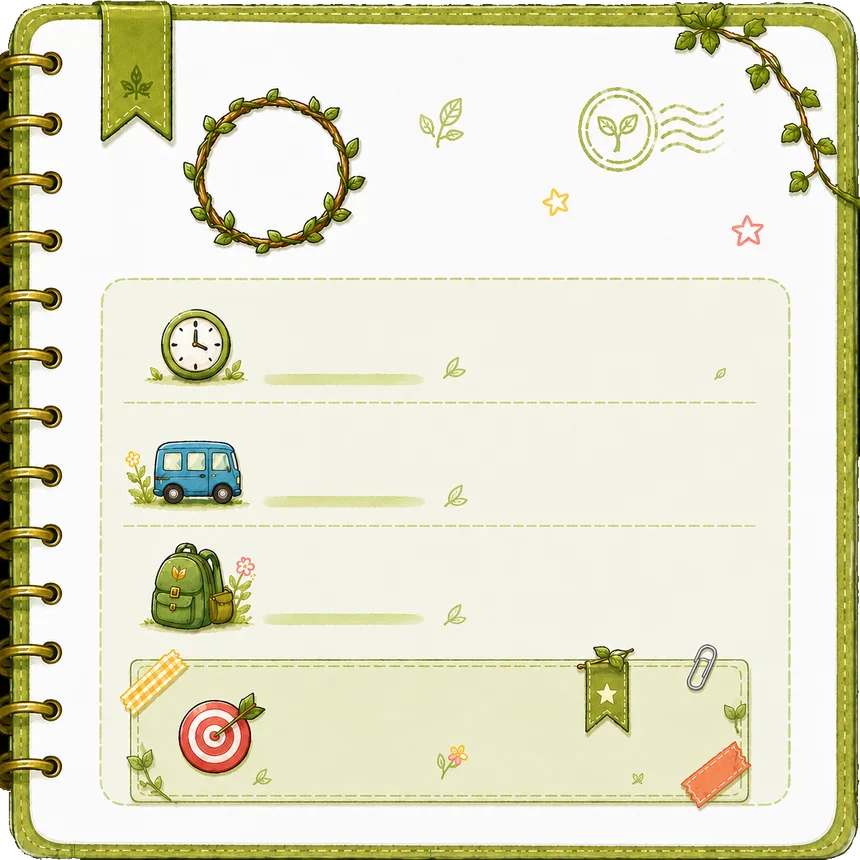
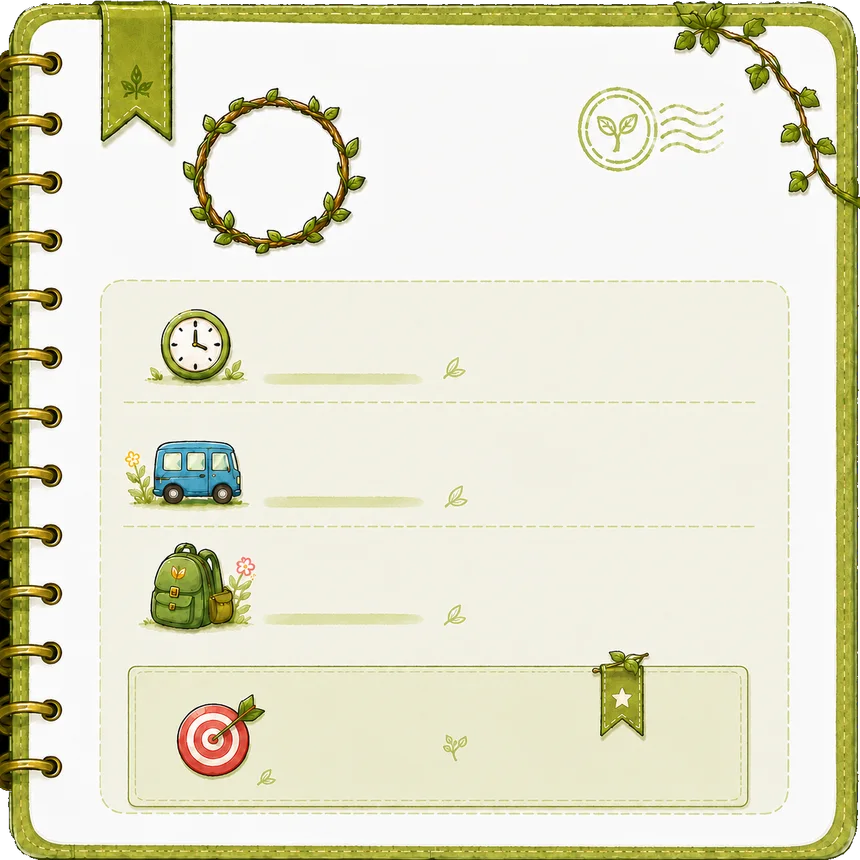
feat: 모험일지 카드 v4 원화 교체 (#108)
* fix: 모험지도 발자국 길 이탈 수정 — v5 원화에서 모래길 중심선 자동 추출로 경로 재보정

- 짧은/긴 지도 PATH를 원화 색 분류 스캔(모래색 픽셀 행별 추적)으로 재추출
- 짧은 지도 17점 → 46점, 긴 지도 21점 → 68점 (S커브·다리 통과 정밀 반영)
- 다리 구간은 목재 데크라 색 추출이 안 되어 수동 보간

Claude-Session: https://claude.ai/code/session_018maNuYqDfFyRSe9uKpZhPR

* feat: 우측 상단 원형 뱃지 버튼 3종 세로 배치 (엄마용-아이전환-아바타)

- 사용자 신규 원화 4종 탑재: 엄마용(엄마 얼굴)·아이전환(남매)·내아바타(초록 실루엣)·성장캐릭터(새싹)
- 엄마용·아이전환 뱃지 그림 v2로 교체
- 내 아바타/성장캐릭터 토글: 좌측 하단 나무 팻말 → 우측 상단 3번째 원형 뱃지(52px)로 이동
- 배경 꾸미기 장착 시 크림 캡슐 분기 제거 (뱃지가 헤더 영역이라 불필요)
- 원본 4장 art-src/ 보관 + README 갱신, vite build 검증

Claude-Session: https://claude.ai/code/session_018maNuYqDfFyRSe9uKpZhPR

* feat: 모험지도 학원 건물 v6 정글 세트 교체 (나무집·돌아치·텐트·티키오두막)

- 사용자 신규 원화 4종 탑재: trim + 높이 220 + 채도 1.08 + webp q86
- 텐트·티키는 원화의 흰 원을 투명 펀칭(중심 flood-fill) — 이모지 뒤배치 방식 유지
- 구멍 중심·지름 실측(투명 블롭 스캔)으로 cx/cy/d 갱신, k는 구멍 표시 크기 통일 기준 재계산
- 구 건물 webp 4종 삭제(미참조 확인), 원본은 art-src/ 보관 + README 갱신

Claude-Session: https://claude.ai/code/session_018maNuYqDfFyRSe9uKpZhPR

* polish: 모험 홈 무게중심 미세조정 6종 (사용자 픽셀 단위 가이드)

- 캐릭터·펫 컨테이너 20px 위로 (translateY 6→-14) — 하단 시트 눌림감 해소
- 헤드라인 문구 아래 20px·우측 7px (relative, 레이아웃 불변) + 나침반 이모지 간격 축소
- 우측 뱃지 3번째(아바타 토글) marginTop 2px — 간격 착시 보정
- '곧 부화!' 말풍선 알쪽으로 11px 하강 + 4px 우측 — 알과 한 덩어리로
- 시트 핸들바 아래 여백 14→7px — 날짜바 소폭 상승
- 모험 탭 초록 채움 8% 소프트 (#A5BB60→#ACC06D)

Claude-Session: https://claude.ai/code/session_018maNuYqDfFyRSe9uKpZhPR

* polish: 모험지도 라벨·발자국·진행도 개선 (사용자 가이드 8종)

- 이름표 2줄 통일: 1줄 학원명 / 2줄 🕘 시간(진하게) — 전 라벨 동일 규칙
[…]

diff --git a/src/components/AdventureJournalCard.jsx b/src/components/AdventureJournalCard.jsx
@@ -44,17 +44,17 @@ export default function AdventureJournalCard({
         }
       }}
       style={{ position: "relative", width: "100%", aspectRatio: "1 / 1", marginBottom: 14, touchAction: "pan-y" }}>
-      {/* v3 초록 노트 원화 (1254×1254, 라벨 글자 없음 — 아이콘+밑줄만) — 값을 아이콘 옆 밑줄 위에 직접 쓴다.
-          좌표 실측: 리스 (30.5,19.5) / 아이콘 행 y 40.3·54.6·68.6 / 배너 타깃 85.7 */}
+      {/* v4 초록 노트 원화 (1254×1254, 라벨·장식 정리판) — 값을 아이콘 옆 밑줄 위에 직접 쓴다.
+          좌표 실측: 리스 중심 (31.6,20.0)·지름 17.5% / 아이콘 행 중심 y 41.2·56.1·69.1 / 배너 83.4 / 밑줄 시작 x 25% */}
       <img src="assets/journal-card.webp" alt="" draggable={false}
         style={{ position: "absolute", inset: 0, width: "100%", height: "100%", display: "block", filter: "drop-shadow(0 6px 14px rgba(74,90,37,0.22))" }} />
 
-      {/* 엠블럼 — 잎 리스 '안'에 들어가게 축소, 리스 원 정중앙 정렬 (사용자 미세조정: +0.7%,+0.3%) */}
-      <span style={{ position: "absolute", left: "31.2%", top: "19.8%", transform: "translate(-50%,-50%)",
+      {/* 엠블럼 — 잎 리스 '안'에 들어가게, 리스 원 정중앙 정렬 (실측 중심) */}
+      <span style={{ position: "absolute", left: "31.6%", top: "20%", transform: "translate(-50%,-50%)",
         fontSize: "clamp(22px, 8vw, 38px)", lineHeight: 1, pointerEvents: "none" }}>{icon}</span>
 
-      {/* 제목 — 던전명(손글씨 크게) + 학원명(부제), 리스 우측 여백 (사용자 조정: 위로) */}
-      <div style={{ position: "absolute", left: "43%", right: "7%", top: "12.5%", height: "14%",
+      {/* 제목 — 던전명(손글씨 크게) + 학원명(부제), 리스 우측 여백 */}
+      <div style={{ position: "absolute", left: "43%", right: "7%", top: "13%", height: "14%",
         display: "flex", flexDirection: "column", alignItems: "center", justifyContent: "center", textAlign: "center", pointerEvents: "none" }}>
         <p style={{ margin: 0, fontFamily: F_HAND, fontWeight: 400, fontSize: "clamp(19px, 6.6vw, 30px)",
           color: "#4E432A", lineHeight: 1.15, textShadow: "0 1px 0 rgba(255,255,255,0.7)",
@@ -64,26 +64,26 @@ export default function AdventureJournalCard({
       </div>
 
       {/* 탐험 시작 — 시각 + 남은시간을 한 줄로 (사용자 조정: 남은시간은 항상 시간 우측, 글자 축소) */}
-      <div style={{ position: "absolute", left: "31.5%", right: "7%", top: "40%", transform: "translateY(-50%)",
+      <div style={{ position: "absolute", left: "30%", right: "7%", top: "41.2%", transform: "translateY(-50%)",
         display: "flex", alignItems: "baseline", flexWrap: "nowrap", columnGap: 7, pointerEvents: "none" }}>
         <span style={{ fontFamily: F_BODY, fontWeight: 400, fontSize: "clamp(13px, 4.2vw, 18px)", color: "#4E432A", lineHeight: 1.15, whiteSpace: "nowrap" }}>{time}</span>
         {remain && <span style={{ fontFamily: F_BODY, fontSize: "clamp(9.5px, 3vw, 12px)", color: "#7A6E48", whiteSpace: "nowrap", overflow: "hidden", textOverflow: "ellipsis" }}>{remain}</span>}
       </div>
 
       {/* 셔틀 — 버스 아이콘 옆 */}
-      <div style={{ position: "absolute", left: "31.5%", right: "10%", top: "54.6%", transform: "translateY(-50%)", textAlign: "left", pointerEvents: "none" }}>
+      <div style={{ position: "absolute", left: "30%", right: "9%", top: "56.1%", transform: "translateY(-50%)", textAlign: "left", pointerEvents: "none" }}>
         <p style={{ margin: 0, fontFamily: F_BODY, fontWeight: 400, fontSize: "clamp(13px, 4.2vw, 18px)", color: "#4E432A", lineHeight: 1.3,
           display: "-webkit-box", WebkitLineClamp: 2, WebkitBoxOrient: "vertical", overflow: "hidden" }}>{shuttle}</p>
       </div>
 
       {/* 준비물 — 가방 아이콘 옆 체크 칩 (App이 토글 포함해 내려줌, 많으면 스크롤) */}
-      <div style={{ position: "absolute", left: "31%", right: "9%", top: "62%", height: "13.5%",
+      <div style={{ position: "absolute", left: "29.5%", right: "9%", top: "62.5%", height: "13%",
         display: "flex", flexWrap: "wrap", gap: 5, alignContent: "center", justifyContent: "flex-start", overflowY: "auto" }}>
         {supplies}
       </div>
 
       {/* 남은 미션 배너 값 — 타깃 아이콘 옆 (라벨 없음 → 문구를 온전히 표기) */}
-      <div style={{ position: "absolute", left: "32%", top: "85.7%", transform: "translateY(-50%)", pointerEvents: "none" }}>
+      <div style={{ position: "absolute", left: "31%", top: "83.4%", transform: "translateY(-50%)", pointerEvents: "none" }}>
         <p style={{ margin: 0, fontFamily: F_BODY, fontWeight: 400, fontSize: "clamp(14px, 4.6vw, 20px)", color: missionTone, whiteSpace: "nowrap" }}>{missionText}</p>
       </div>
     </div>

diff --git a/art-src/README.md b/art-src/README.md
@@ -48,4 +48,5 @@ ChatGPT로 생성한 **가공 전 원본 이미지**를 보관한다. 배포(dis
 | adventure-map-short-src.png | 모험 지도 배경 원화 v2 (3:5 양피지 972×1619, 학원 0~2곳용) | adventure-map-short.webp |
 | journal-card-src.png | 모험일지 학원 카드 양피지 노트 원화 (1181×1338, 구) | (교체됨) |
 | journal-card-v2-src.png | 모험일지 초록 노트 원화 v2 (라벨 글자 포함, 구) | (교체됨) |
-| journal-card-v3-src.png | 모험일지 초록 노트 원화 v3 (라벨 없음·아이콘+밑줄, 모서리 검정→투명 펀칭 탑재) | journal-card.webp |
+| journal-card-v3-src.png | 모험일지 초록 노트 원화 v3 (구) | (교체됨) |
+| journal-card-v4-src.png | 모험일지 초록 노트 원화 v4 (장식 정리판, 모서리 검정→투명 펀칭 탑재) | journal-card.webp |
